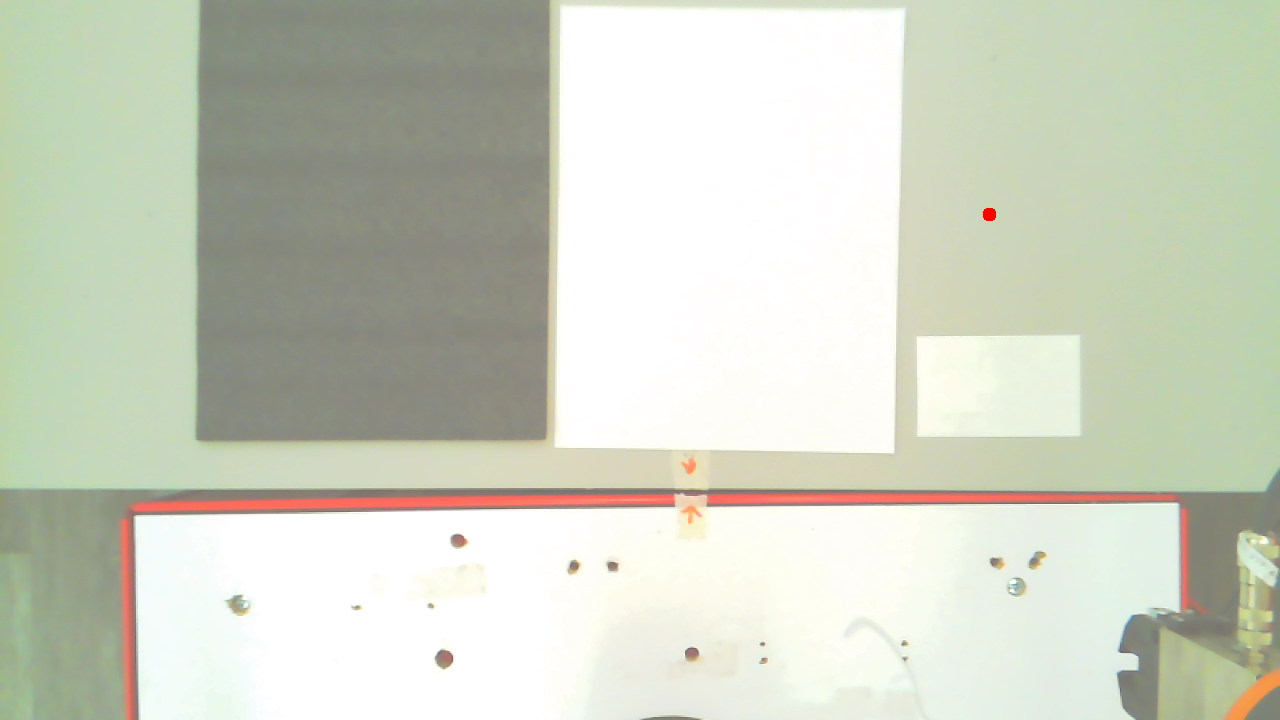
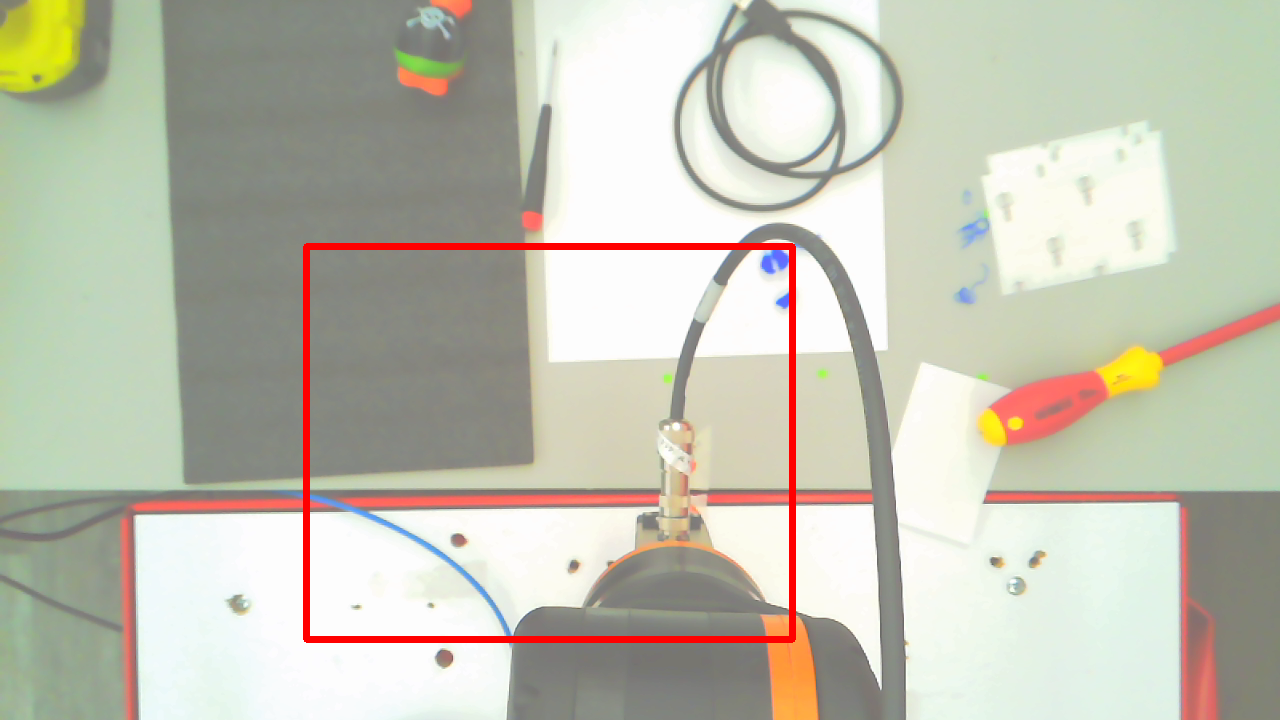
broken camera script

diff --git a/cv/take_pics.py b/cv/take_pics.py
@@ -1,6 +1,7 @@
 import cv2
 import numpy as np
 from PIL import Image
+from time import sleep
 
 import coord_math
 
@@ -32,55 +33,69 @@ robot_prev_x, robot_prev_y = 0,0
 # update txt file with new move
 def update_move_file(robot_targ_x, robot_targ_y):
 	move_file = open("new_move.txt", "w") # open file for writing
-	move_file.write(f"{robot_targ_x} {robot_targ_y} 0") # update file with target coordinates
+	move_file.write(f"{robot_targ_x} {robot_targ_y}") # update file with target coordinates
 	move_file.close()
+	print("updatign!")
 
 	# record this as the last known move
-	robot_prev_x, robot_prev_y = robot_targ_x, robot_targ_y
+	global robot_prev_x, robot_prev_y
+	robot_prev_x, robot_prev_y = (robot_targ_x, robot_targ_y)
 
 def check_move_busy():
 	move_file = open("new_move.txt", "r") # open file for reading
-
+	print("checkign!")
 	# read the file contents, if there is nothing, move has finished
 	move_str = move_file.read()
 	move_file.close()
-	return (str != "")
+	return (move_str != "") # return whether or not the file is populated
 
 # run loop only if move finished
-while (not check_move_busy()):
-	# read in a frame
-	ret, frame = cap.read()
+def loop():
 
-	# convert the frame from BGR to HSV
-	hsvImage = cv2.cvtColor(frame, cv2.COLOR_BGR2HSV)
+	if (not check_move_busy()):
+		
+		# read in a frame
+		ret, frame = cap.read()
 
-	# mask the frame using the bounds defined above
-	mask = cv2.inRange(hsvImage, lowerLimit, upperLimit)
-	mask_ = Image.fromarray(mask)
+		# convert the frame from BGR to HSV
+		hsvImage = cv2.cvtColor(frame, cv2.COLOR_BGR2HSV)
 
-	bbox = mask_.getbbox()
-	if bbox is not None:
+		# mask the frame using the bounds defined above
+		mask = cv2.inRange(hsvImage, lowerLimit, upperLimit)
+		mask_ = Image.fromarray(mask)
 
-		# get coords of unmasked part of frame, and draw rectangle there
-		pixel_x1, pixel_y1, pixel_x2, pixel_y2 = bbox
-		cv2.rectangle(frame, (pixel_x1, pixel_y1), (pixel_x2, pixel_y2), (0,0,255), 5)
+		bbox = mask_.getbbox()
+		if bbox is not None:
 
-		# calculate center coords of bbox
-		pixel_x = (pixel_x1 + pixel_x2) / 2
-		pixel_y = (pixel_y1 + pixel_y2) / 2
+			# get coords of unmasked part of frame, and draw rectangle there
+			pixel_x1, pixel_y1, pixel_x2, pixel_y2 = bbox
+			cv2.rectangle(frame, (pixel_x1, pixel_y1), (pixel_x2, pixel_y2), (0,0,255), 5)
 
-		# convert from pixel coords to robot coords
-		robot_targ_x, robot_targ_y = coord_math.get_robot_coords(pixel_x, pixel_y)
-		# update file with new move if new robot coords are meaningfully different from previous move
-		if (coord_math.coords_different(robot_targ_x, robot_targ_y, robot_prev_x, robot_prev_y)):
-			update_move_file(robot_targ_x, robot_targ_y)
+			# calculate center coords of bbox
+			pixel_x = (pixel_x1 + pixel_x2) / 2
+			pixel_y = (pixel_y1 + pixel_y2) / 2
 
-	# display the frame with bounding box
-	cv2.imshow('frame', frame)
 
-	# save the frame
-	cv2.imwrite('frame.png', frame)
-	
+			# convert from pixel coords to robot coords
+			robot_targ_x, robot_targ_y = coord_math.get_robot_coords(pixel_x, pixel_y)
+			# update file with new move if new robot coords are meaningfully different from previous move
+			global robot_prev_x, robot_prev_y
+			print(f"{robot_targ_x} {robot_targ_y} {robot_prev_x} {robot_prev_y}")
+			coords_diff = coord_math.coords_different(robot_targ_x, robot_targ_y, robot_prev_x, robot_prev_y)
+			if coords_diff:
+				print("different!")
+				update_move_file(robot_targ_x, robot_targ_y)
+
+		# display the frame with bounding box
+		cv2.imshow('frame', frame)
+
+		# save the frame
+		cv2.imwrite('frame.png', frame)
+
+	sleep(.5)
+
+while (True):
+	loop()
 	# wait for key-press
 	if cv2.waitKey(1) & 0xFF == 27:
 		break